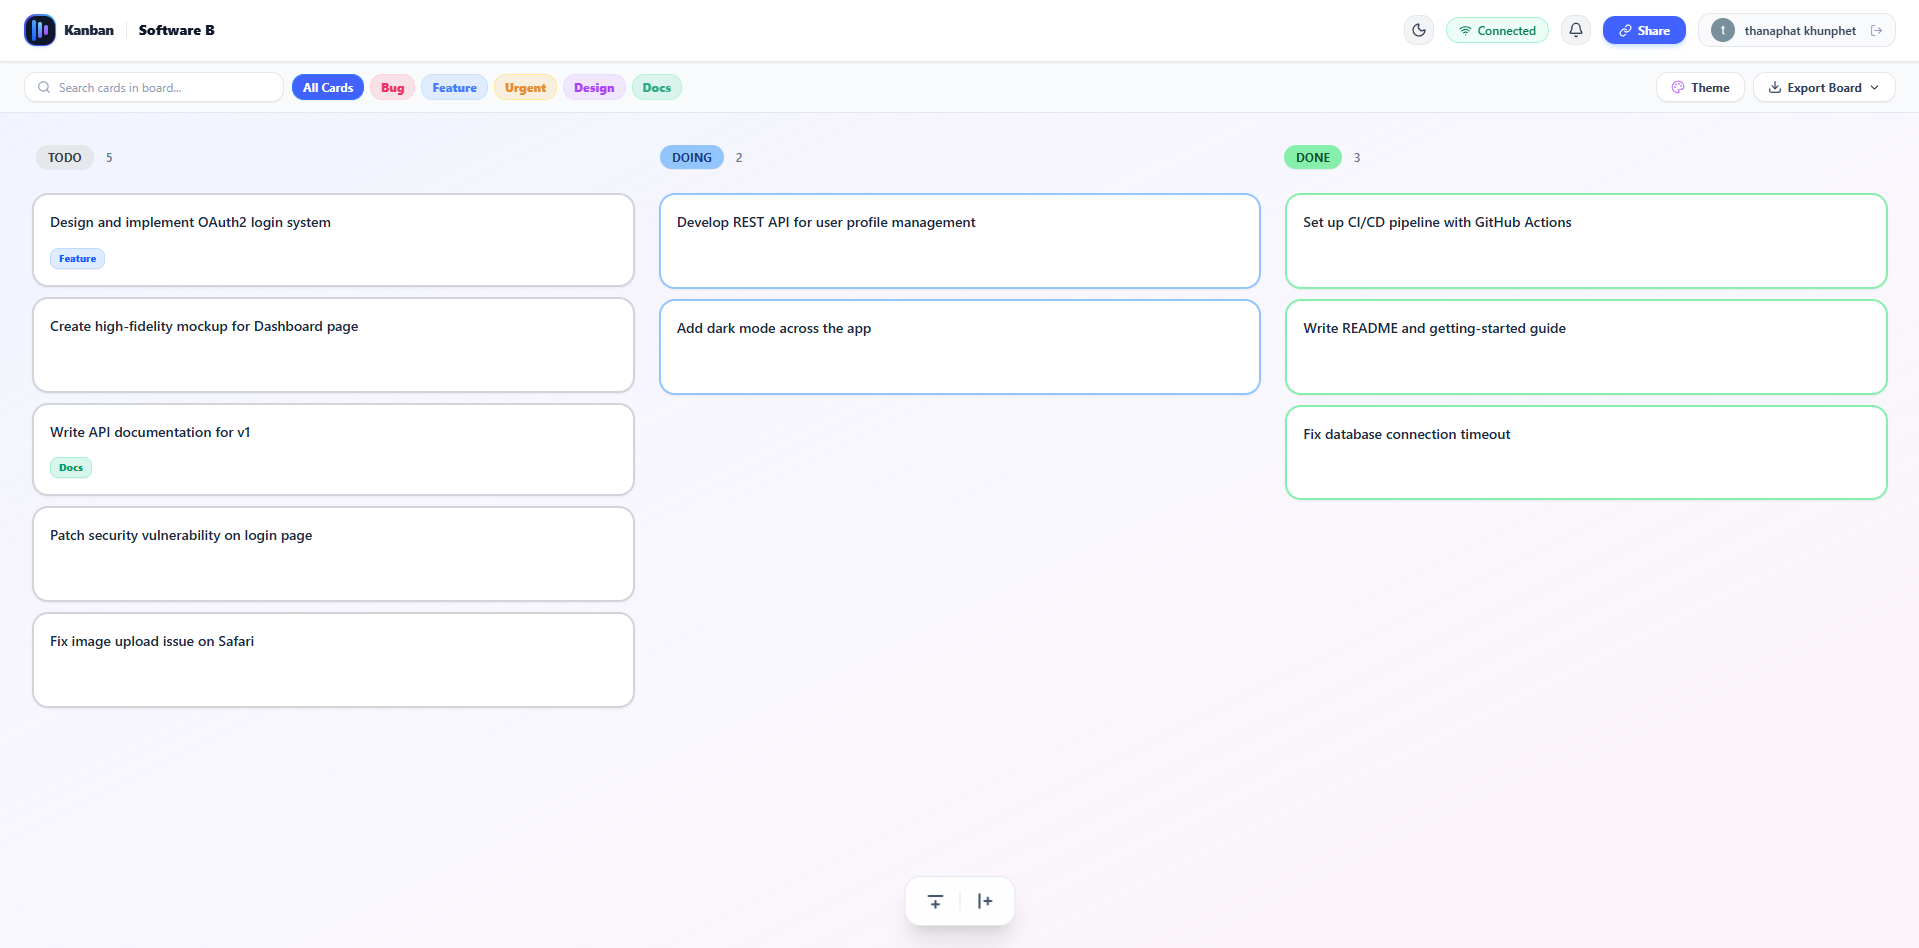
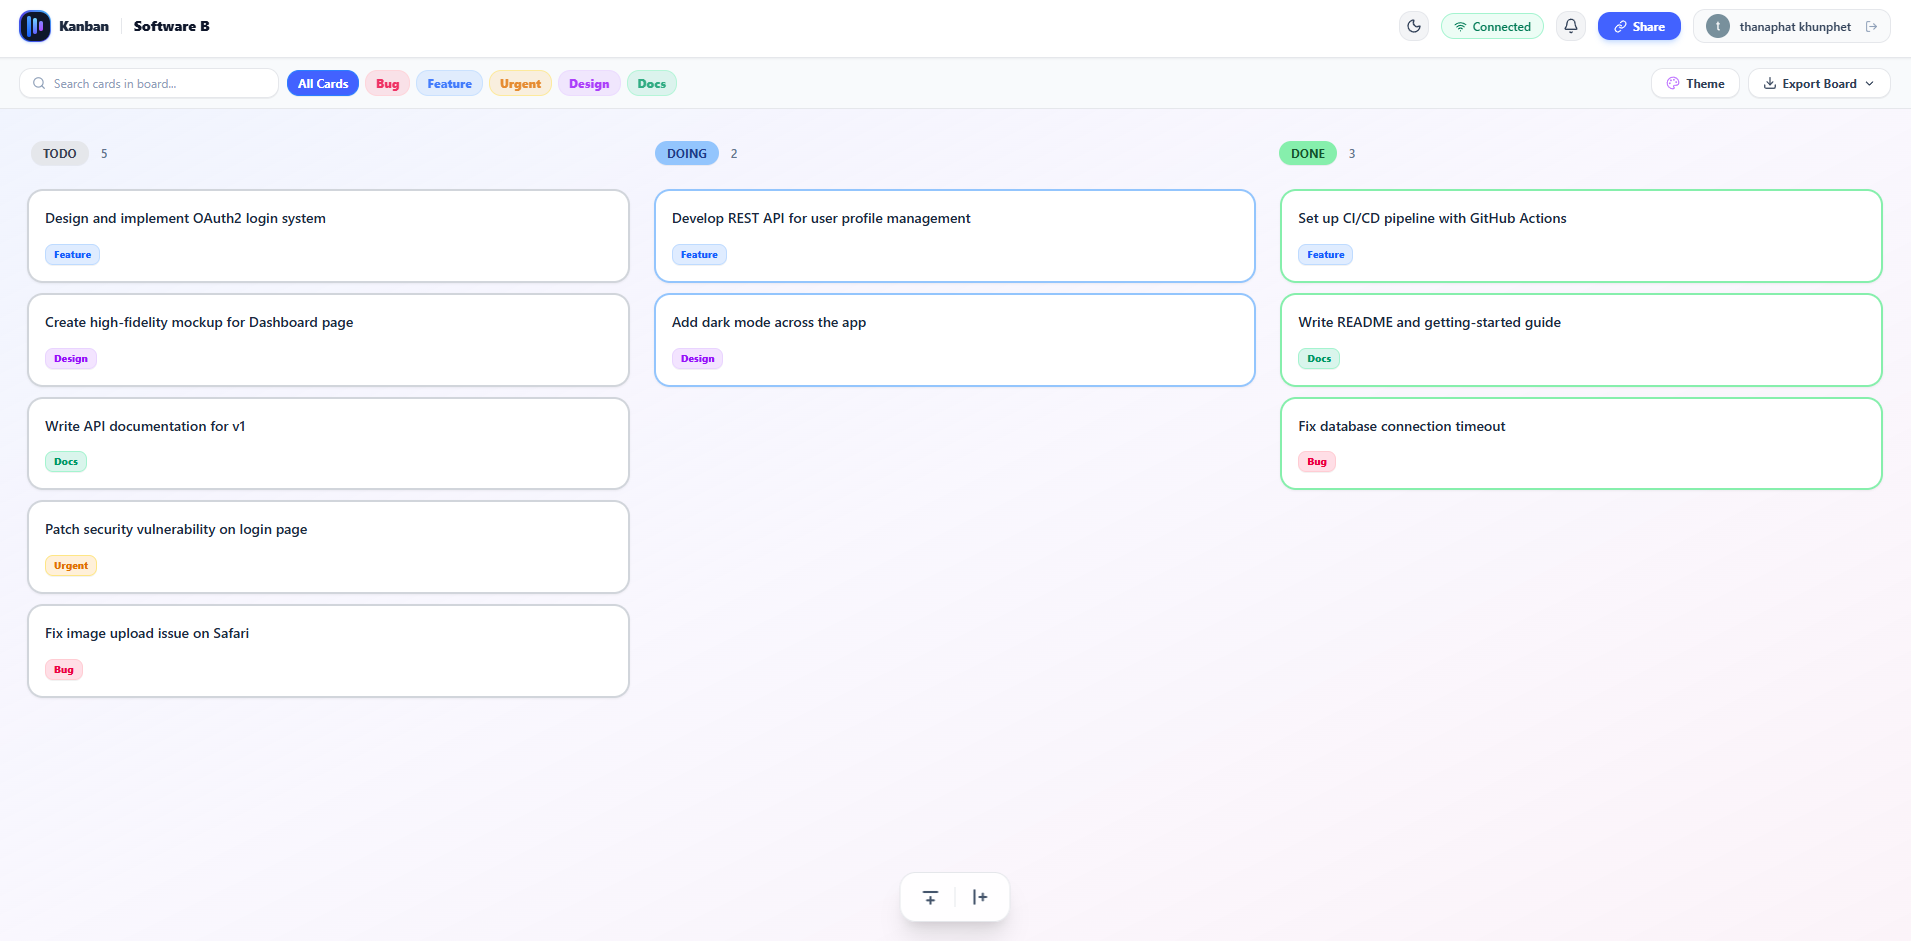
docs: add screenshots and preview section to README

diff --git a/README.md b/README.md
@@ -2,6 +2,14 @@
 
 A real-time collaborative kanban board built with a Go backend and a React + TypeScript frontend. Cards, columns, and swimlanes sync instantly across everyone connected to a board over WebSockets, and Redis Pub/Sub is used so it can scale across multiple backend instances.
 
+## Preview
+
+### Dashboard
+![Kanban Dashboard](./screenshot/KanbanDashboard.png)
+
+### Kanban Board
+![Kanban Board](./screenshot/KanbanBoard.png)
+
 ## Features
 
 **Real-time sync**
